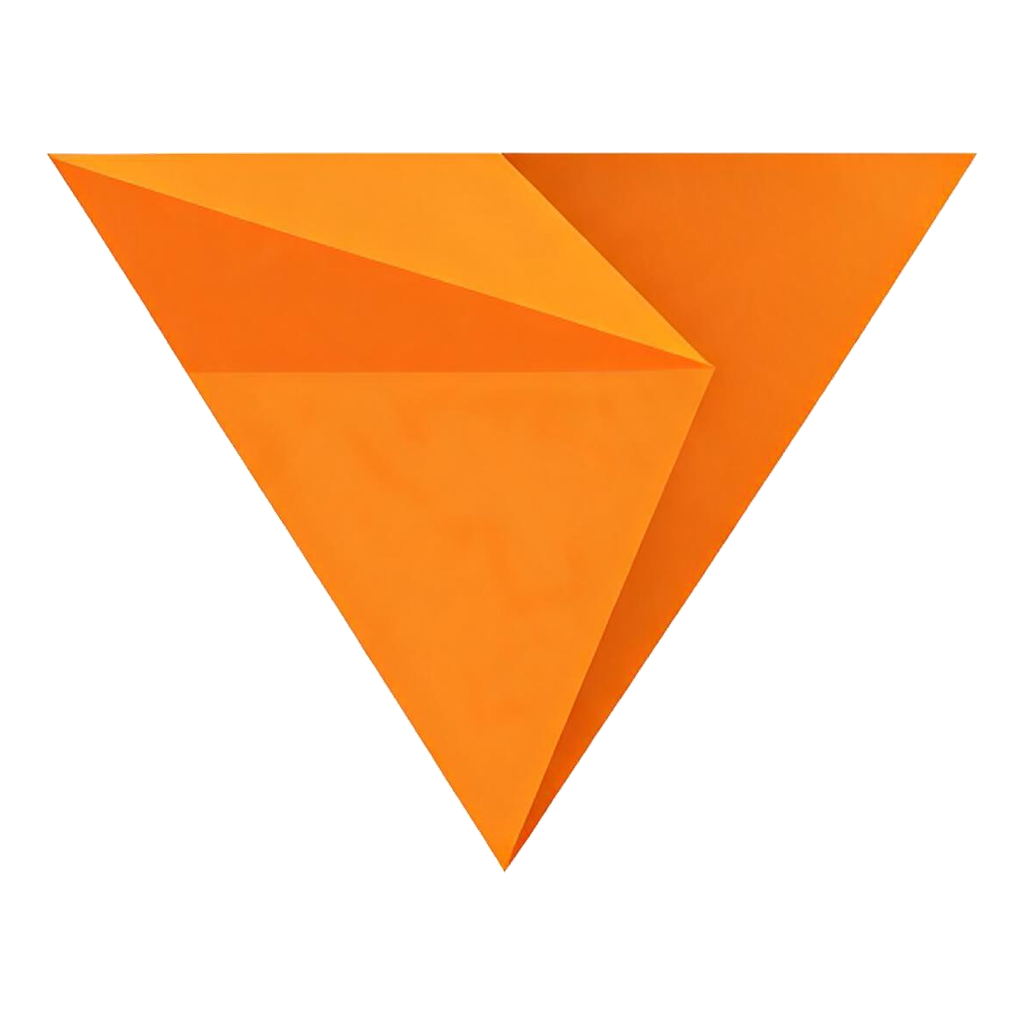
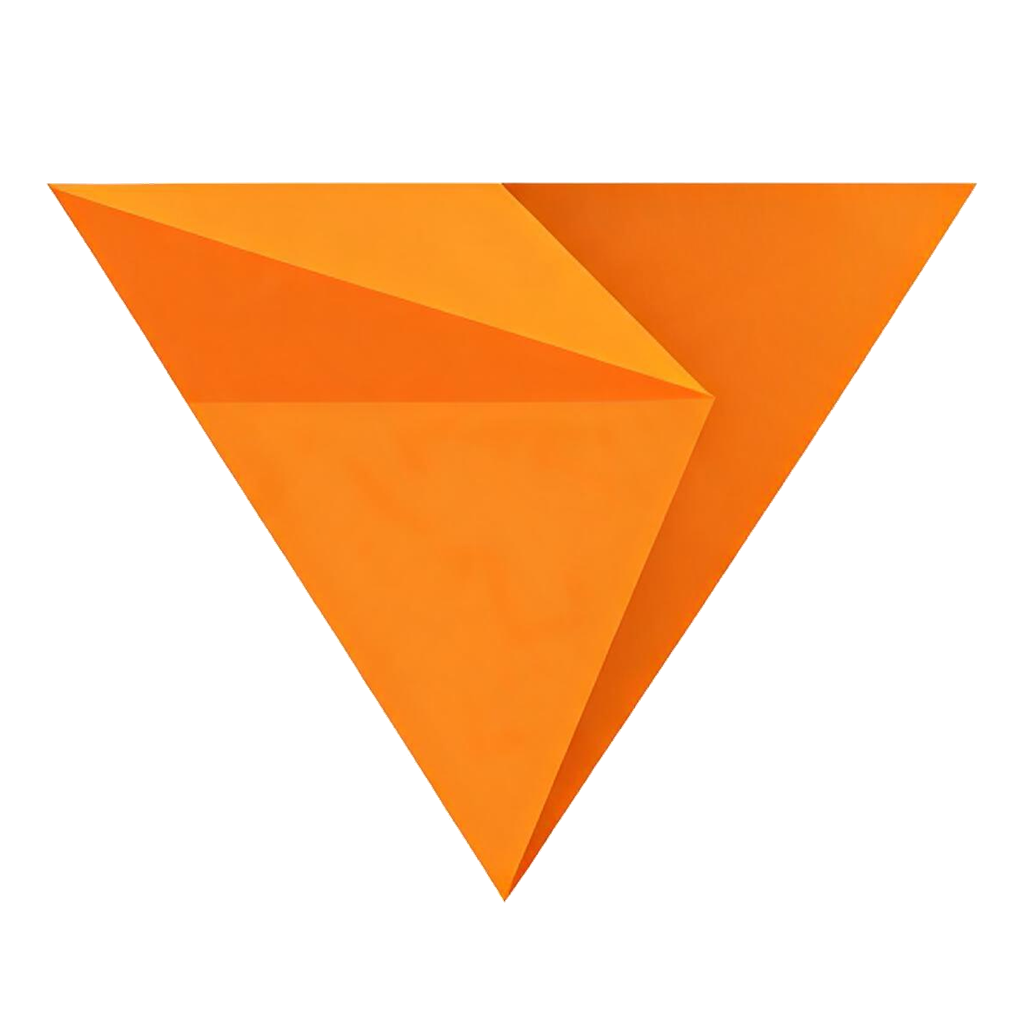
feat: 优化应用图标设计

Changed region(s): [[0.0312, 0.125, 0.9688, 0.875]]

diff --git a/frontend/scripts/generate-icons.js b/frontend/scripts/generate-icons.js
@@ -63,11 +63,11 @@ async function removeWhiteBackgroundAndCrop(inputBuffer, padding = 0.1) {
     .png()
     .toBuffer();
 
-  // 居中到正方形透明画布
+  // 居中到正方形透明画布，垂直向下偏移底边距的 20% 以补偿三角形视觉重心偏上
   const pad = Math.round(Math.max(cropW, cropH) * padding);
   const squareSize = Math.max(cropW, cropH) + pad * 2;
   const offsetX = Math.round((squareSize - cropW) / 2);
-  const offsetY = Math.round((squareSize - cropH) / 2);
+  const offsetY = Math.round((squareSize - cropH) * 0.6);
 
   return sharp({
     create: {
